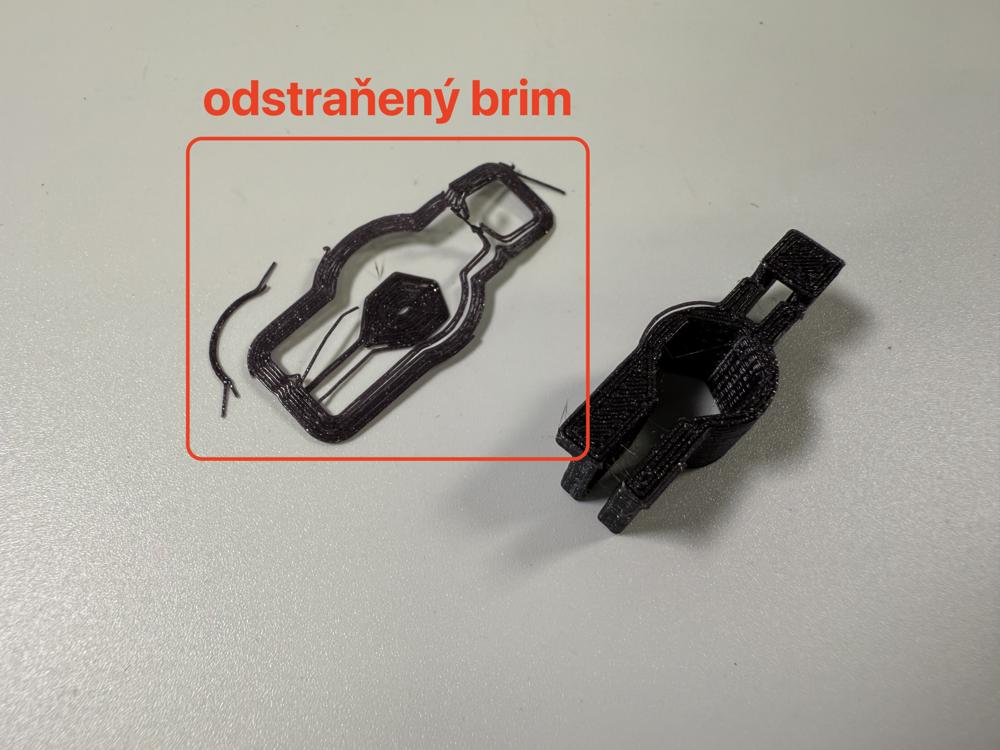
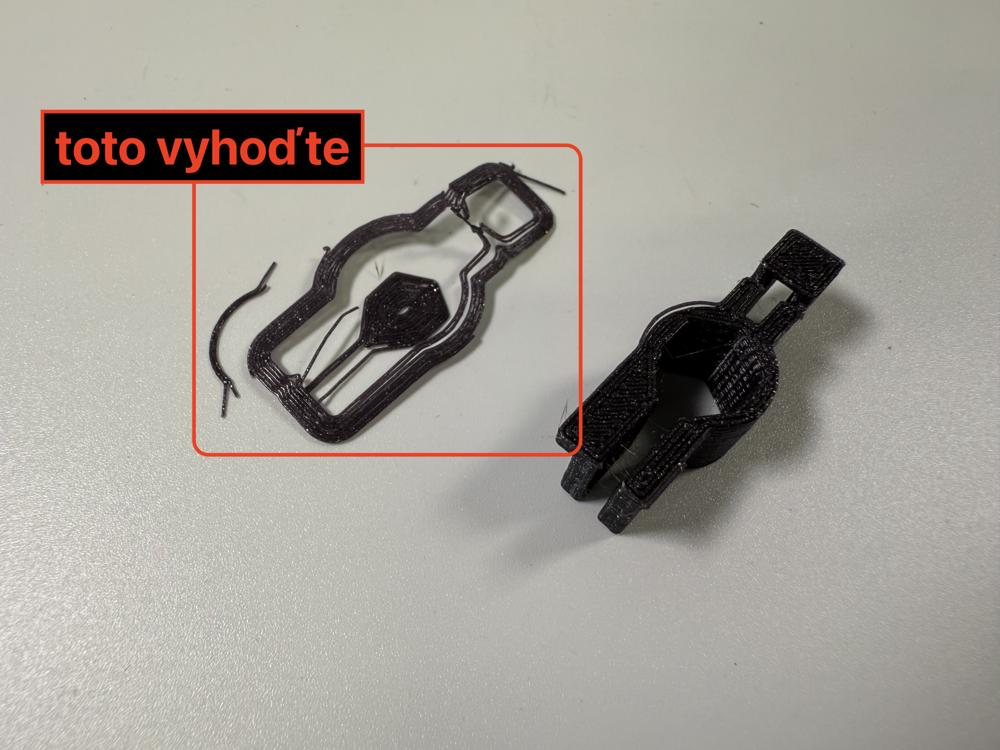
docs: stage 2 documentation fix

Changed region(s): [[0.031, 0.092, 0.589, 0.6133]]

diff --git a/docs/v2/robotAssembly/stage2.md b/docs/v2/robotAssembly/stage2.md
@@ -22,7 +22,7 @@
 
     ![](assets/IMG-stage2-step1.jpeg)
 
-3. Odtrhněte z držáku na fixu brim.
+3. Očistěte držák na fixu.
 
     ![](assets/IMG-stage2-step2a.jpeg)
     ![](assets/IMG-stage2-step2b.jpeg)
